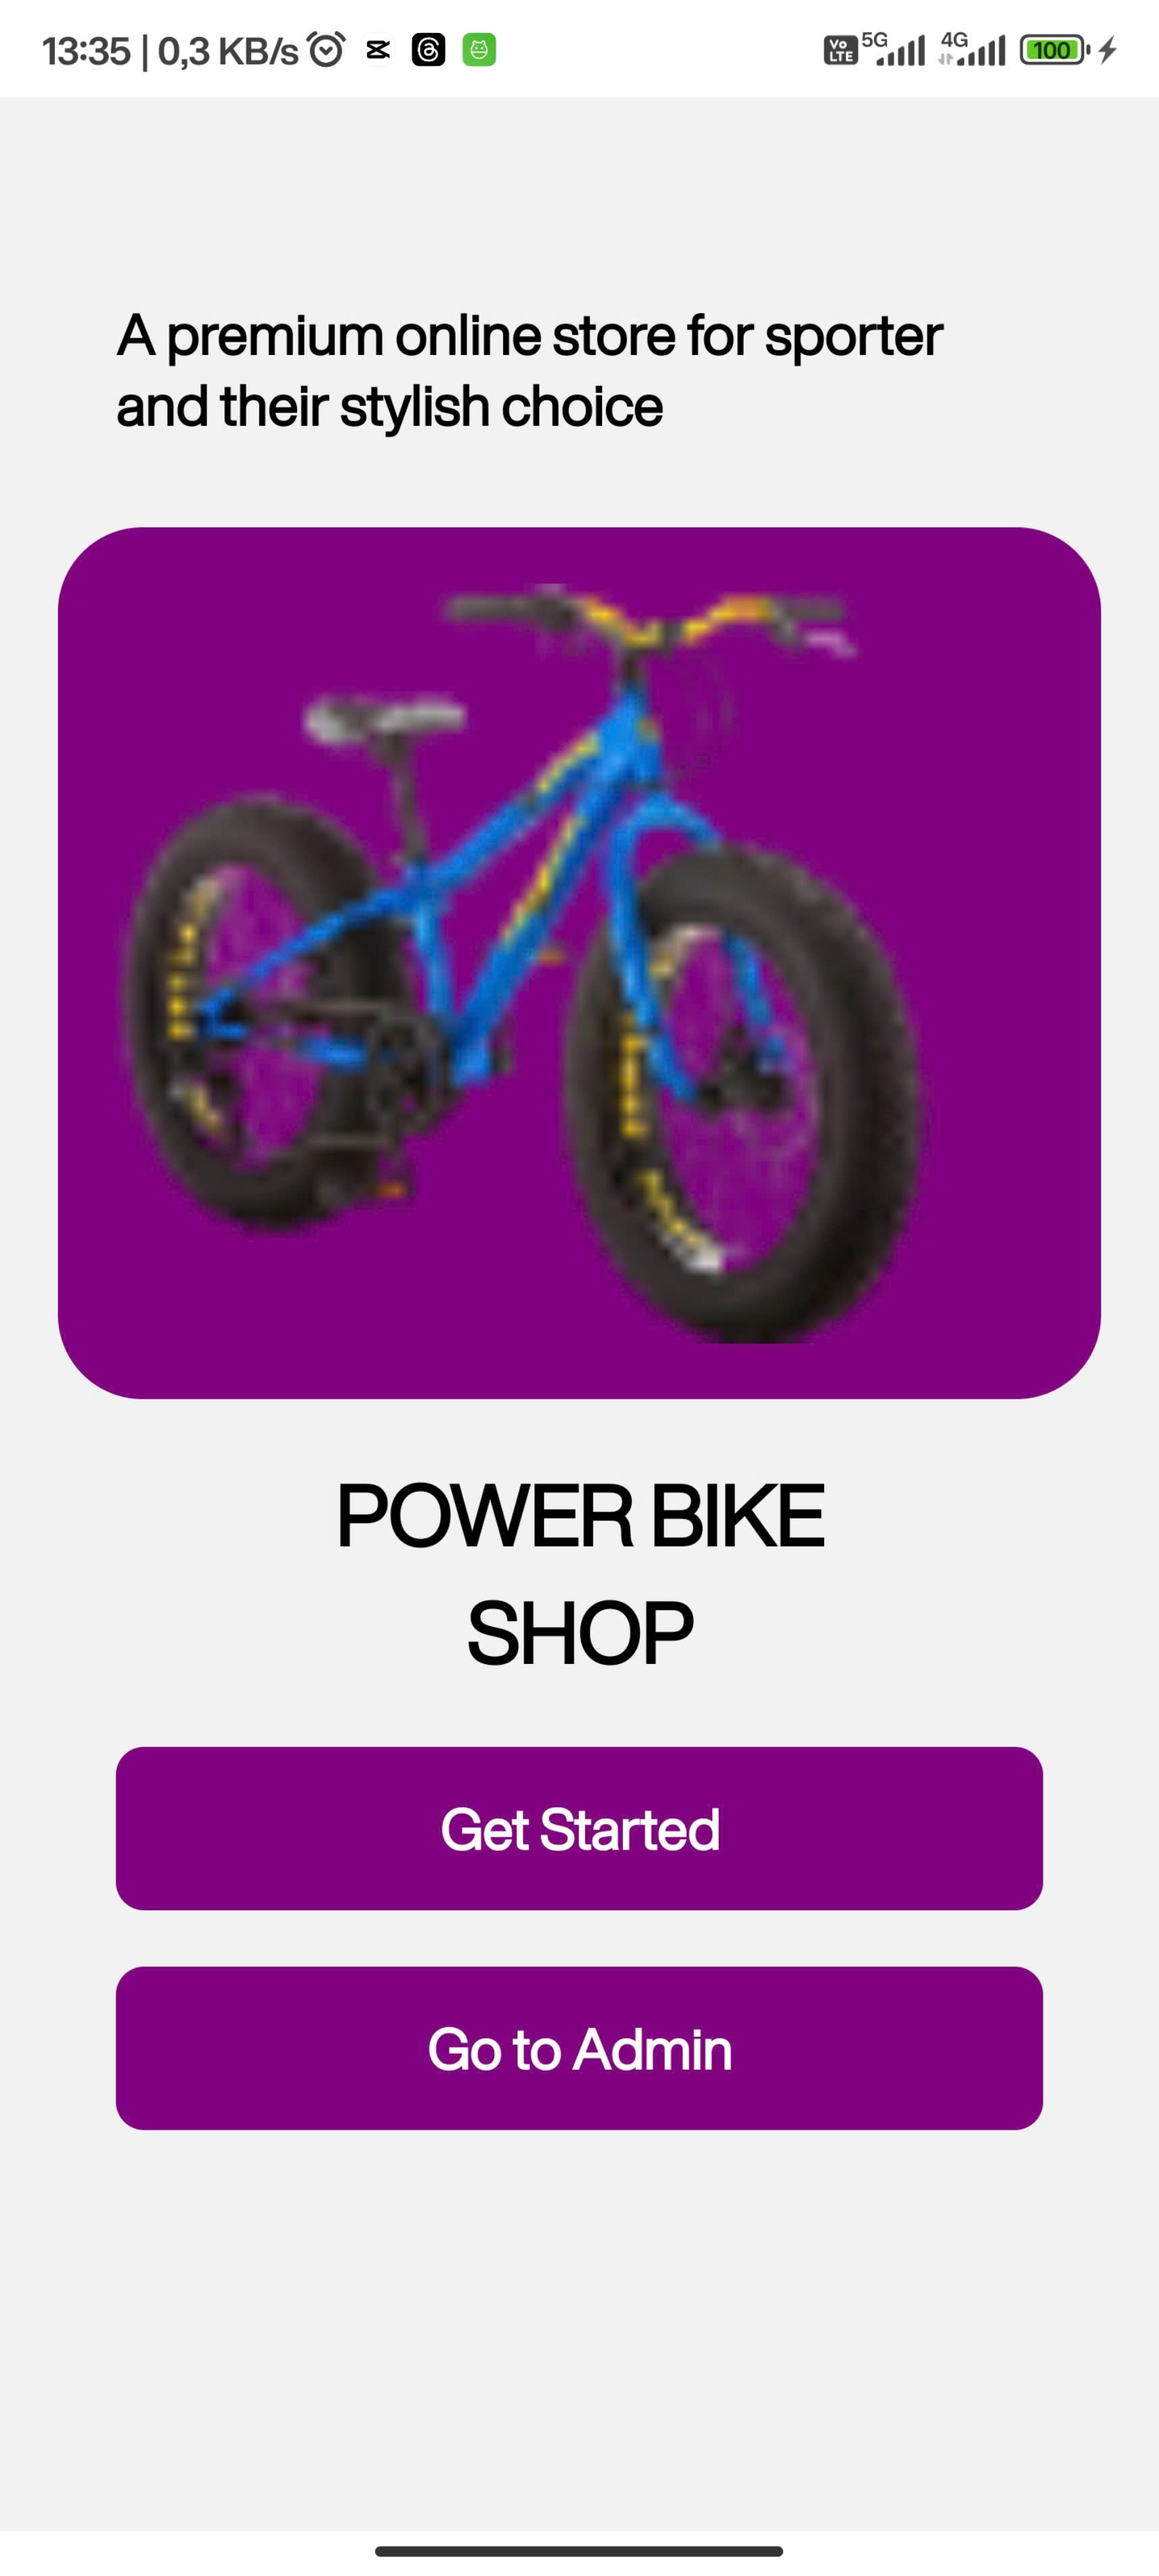
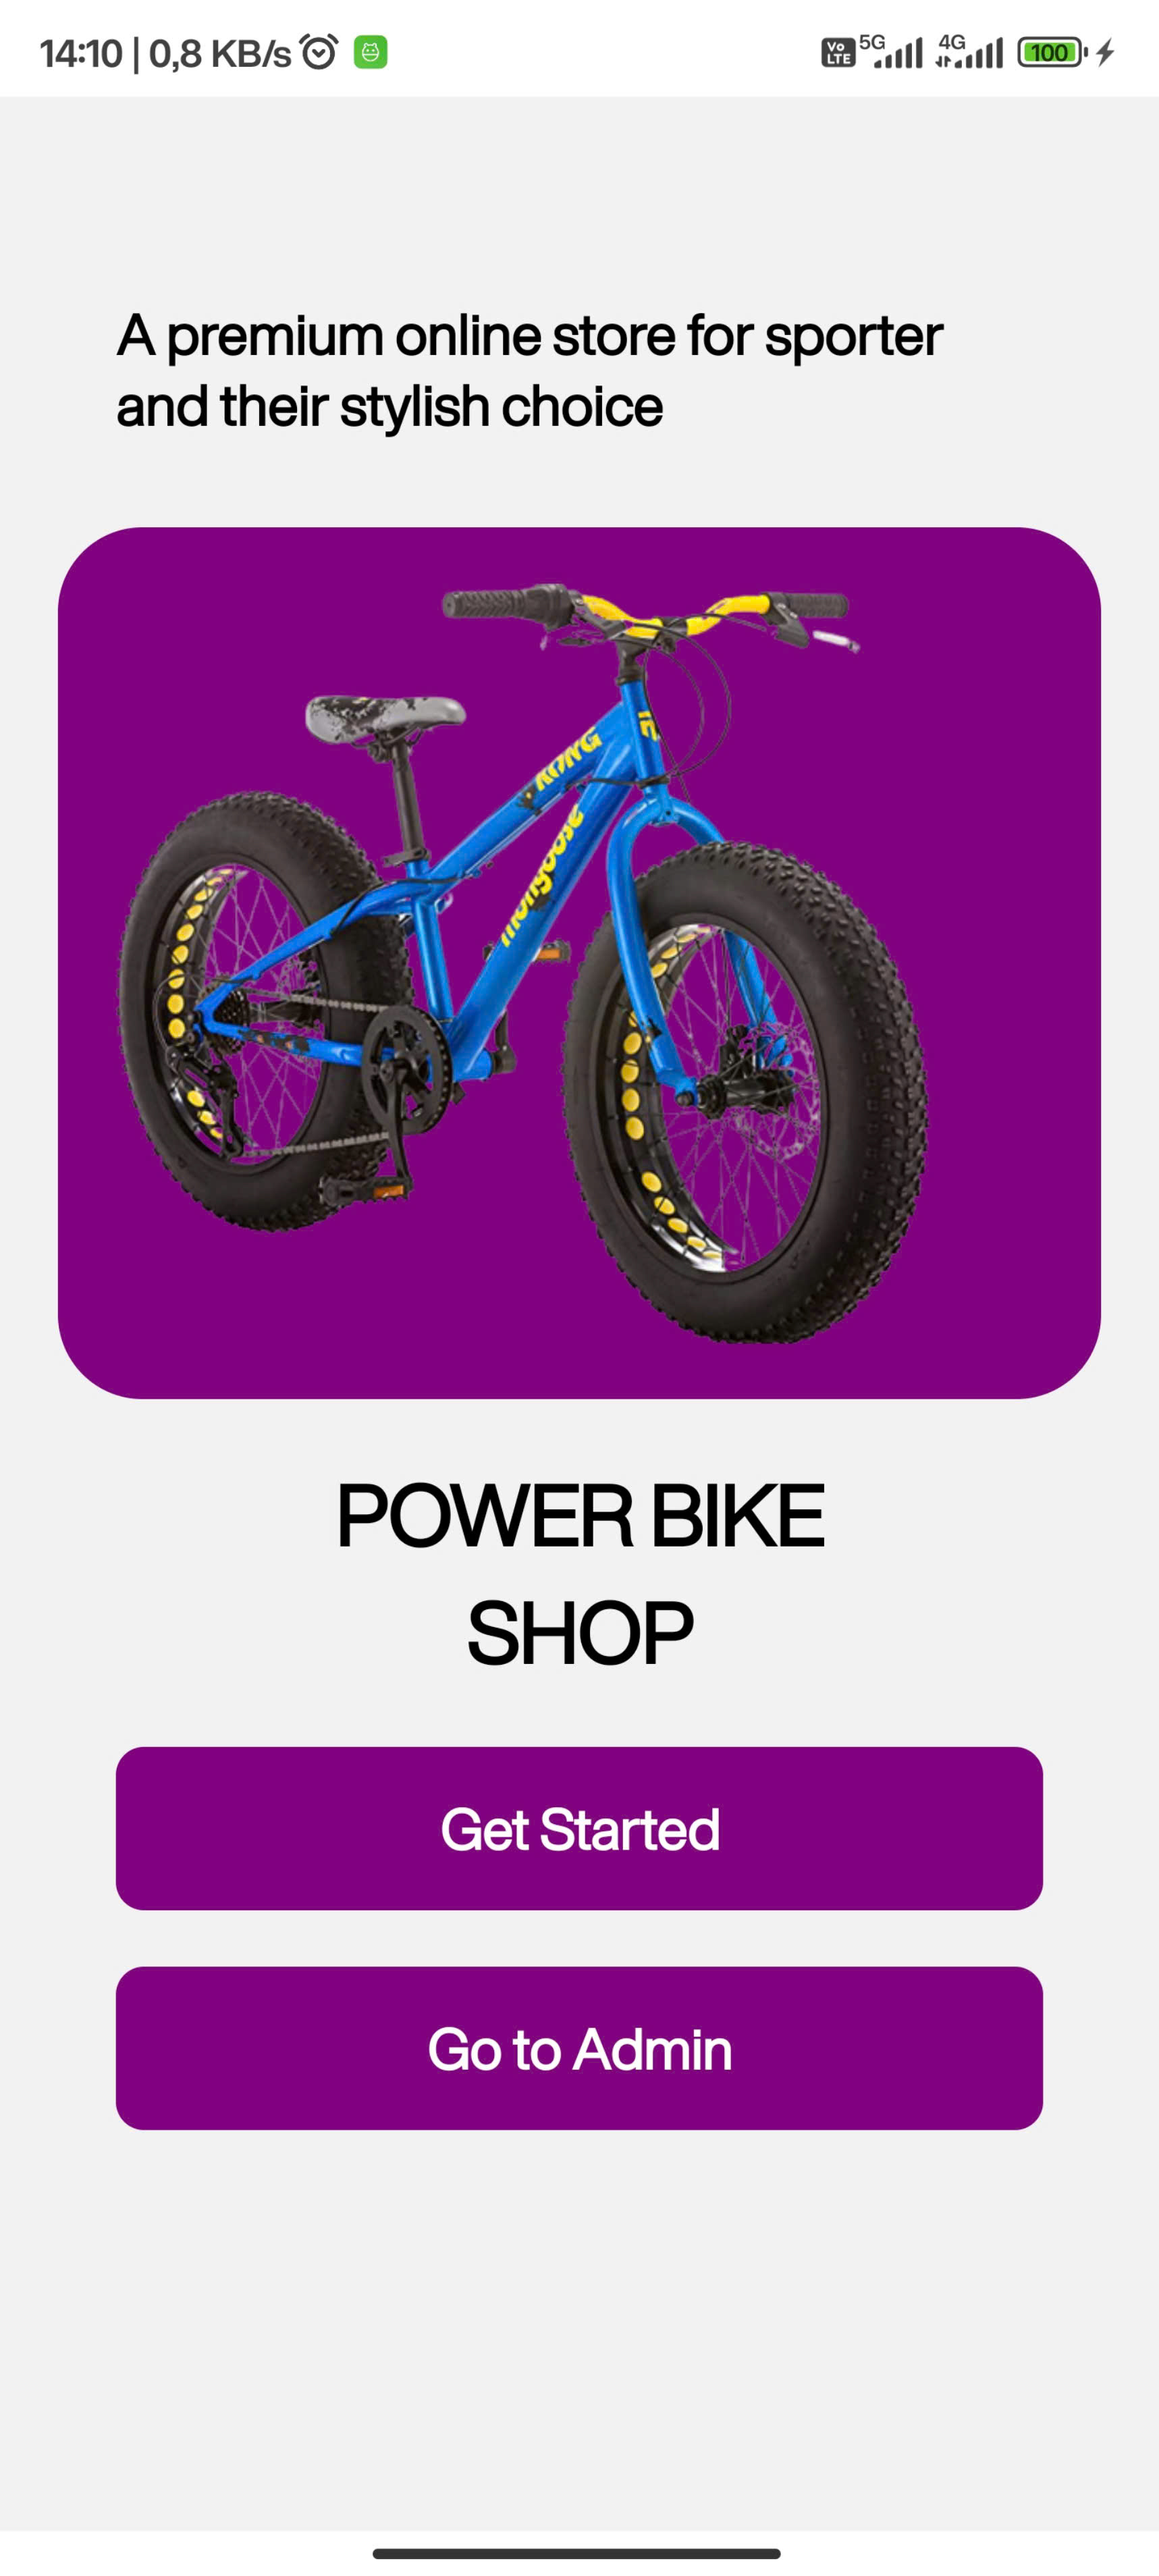
update screen01

diff --git a/BikeApp/src/pages/Screen01.jsx b/BikeApp/src/pages/Screen01.jsx
@@ -22,7 +22,7 @@ export default function Screen01({ navigation }) {
         <Image
           style={{ width: 292, height: 270 }}
           source={{
-            uri: "https://res.cloudinary.com/dzcc5diot/image/upload/v1731304087/download_mdgcnd.png",
+            uri: "https://res.cloudinary.com/dzcc5diot/image/upload/v1731308932/5c0d8c0f67fc78f523516fd7768fec28_pzffft.png",
           }}
         />
       </View>
